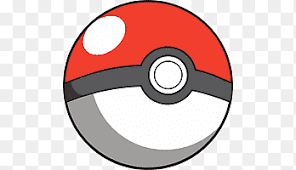
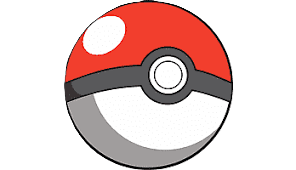
fix: display custom pokemons from localStorage in PokemonPage and delete default-pokemon.png background

diff --git a/src/components/PokemonPage.jsx b/src/components/PokemonPage.jsx
@@ -54,7 +54,7 @@ const typeTextColors = {
 
 export default function PokemonPage() {
   const [pokemon, setPokemon] = useState(null);
-  const {pokemonName} = useParams();
+  const { pokemonName } = useParams();
   const navigate = useNavigate();
   const [category, setCategory] = useState("");
   const [story, setStory] = useState("");
@@ -62,14 +62,23 @@ export default function PokemonPage() {
 
 
   useEffect(() => {
-    if(pokemonName){
-    const URL = `https://pokeapi.co/api/v2/pokemon/${pokemonName.toLowerCase()}`;
-    axios.get(URL).then((response) => {
-      setPokemon(response.data);
-    })
+    const stored = JSON.parse(localStorage.getItem("pokemons")) || [];
+    const localPokemon = stored.find(p => p.name.toLowerCase() === pokemonName.toLowerCase());
+
+    if (localPokemon) {
+      setPokemon(localPokemon);
+      return;
+    }
+
+    if (pokemonName) {
+      const URL = `https://pokeapi.co/api/v2/pokemon/${pokemonName.toLowerCase()}`;
+      axios.get(URL).then((response) => {
+        setPokemon(response.data);
+      })
         .catch((error) => {
           console.error('Error fetching Pokemons', error)
-          setPokemon(null)}
+          setPokemon(null)
+        }
         );
     } else {
       setPokemon(null);
@@ -79,49 +88,59 @@ export default function PokemonPage() {
 
   useEffect(() => {
     if (pokemonName) {
+      const stored = JSON.parse(localStorage.getItem("pokemons")) || [];
+      const localPokemon = stored.find(p => p.name.toLowerCase() === pokemonName.toLowerCase());
+
+      if (localPokemon) {
+        setCategory(localPokemon.category || "");
+        setStory(localPokemon.story || "No story available for " + pokemonName);
+        setGender(localPokemon.gender || "");
+        return;
+      }
+      
       fetch(`https://pokeapi.co/api/v2/pokemon-species/${pokemonName.toLowerCase()}/`)
-          .then((res) => res.json())
-          .then((data) => {
-            setCategory(data.genera.find(genus => genus.language.name === "en")?.genus);
+        .then((res) => res.json())
+        .then((data) => {
+          setCategory(data.genera.find(genus => genus.language.name === "en")?.genus);
 
-            const story = data.flavor_text_entries
-                .filter(entry => entry.language.name === "en")
-                .map(entry => entry.flavor_text)
-                .filter((text, index, self) => self.indexOf(text) === index)
-                .slice(0, 5)
-                .join("\n\n");
-            setStory(story.length > 0 ? story : "No story available for "+ pokemonName);
+          const story = data.flavor_text_entries
+            .filter(entry => entry.language.name === "en")
+            .map(entry => entry.flavor_text)
+            .filter((text, index, self) => self.indexOf(text) === index)
+            .slice(0, 5)
+            .join("\n\n");
+          setStory(story.length > 0 ? story : "No story available for " + pokemonName);
 
-            const genderRate = data.gender_rate;
-            let genderDisplay = null;
-            if (genderRate === -1) {
-              genderDisplay = <FontAwesomeIcon icon="question" className="text-gray-500 text-2xl" />;
-            } else if (genderRate === 0){
-              genderDisplay = <FontAwesomeIcon icon="mars" className="text-blue-500 text-2xl" />
-            } else if (genderRate === 8){
-              genderDisplay = <FontAwesomeIcon icon="venus" className="text-rose-500 text-2xl" />
-            }
-            else{
-              genderDisplay = (
-                  <div className="flex gap-2">
-                    <FontAwesomeIcon icon="mars" className="text-blue-500 text-2xl" />
-                    <FontAwesomeIcon icon="venus" className="text-rose-500 text-2xl" />
-                  </div>
-              )
-            }
-            setGender(genderDisplay)
-          })
-          .catch((error) => console.error("Error fetching species data", error));
+          const genderRate = data.gender_rate;
+          let genderDisplay = null;
+          if (genderRate === -1) {
+            genderDisplay = <FontAwesomeIcon icon="question" className="text-gray-500 text-2xl" />;
+          } else if (genderRate === 0) {
+            genderDisplay = <FontAwesomeIcon icon="mars" className="text-blue-500 text-2xl" />
+          } else if (genderRate === 8) {
+            genderDisplay = <FontAwesomeIcon icon="venus" className="text-rose-500 text-2xl" />
+          }
+          else {
+            genderDisplay = (
+              <div className="flex gap-2">
+                <FontAwesomeIcon icon="mars" className="text-blue-500 text-2xl" />
+                <FontAwesomeIcon icon="venus" className="text-rose-500 text-2xl" />
+              </div>
+            )
+          }
+          setGender(genderDisplay)
+        })
+        .catch((error) => console.error("Error fetching species data", error));
     }
   }, [pokemonName]);
 
 
   if (pokemon === null /*|| !Array.isArray(pokemons) || pokemons.length === 0*/) {
     return (
-        <div className="w-full h-screen flex flex-col justify-center text-center items-center font-pokemon text-4xl loading gap-5">
-          <h1 className="animate-pulse text-5xl">Loading ...</h1>
-          <img className="animate-spin w-50" src="/loading.png" alt="" />
-        </div>
+      <div className="w-full h-screen flex flex-col justify-center text-center items-center font-pokemon text-4xl loading gap-5">
+        <h1 className="animate-pulse text-5xl">Loading ...</h1>
+        <img className="animate-spin w-50" src="/loading.png" alt="" />
+      </div>
     )
   }
 
@@ -129,8 +148,8 @@ export default function PokemonPage() {
     <div className="w-[90vw] flex flex-col justify-center gap-5 p-3">
 
       <Link to="/home" className="flex gap-2 items-center inset-0 relative left-30">
-          <FontAwesomeIcon icon="arrow-left" className= {`cursor-pointer hover:duration-500 hover:scale-150 ${typeTextColors[pokemon.types[0].type.name]}`}
-          />
+        <FontAwesomeIcon icon="arrow-left" className={`cursor-pointer hover:duration-500 hover:scale-150 ${typeTextColors[pokemon.types[0].type.name]}`}
+        />
         <p className="font-bold">Pokedex</p>
       </Link>
       <div className="w-full flex justify-between items-center gap-10 ml-25">
@@ -142,15 +161,15 @@ export default function PokemonPage() {
               <p className="text-gray-400 text-2xl font-bold">#00{pokemon.id}</p>
             </div>
             <div>
-                <div className="flex gap-2">
-                  {pokemon.types.map((type, index) => (
-                      <p
-                          key={`${type.type.name}-${index}`}
-                          className={`${typeBgColors[type.type.name]} px-5 py-1 rounded-2xl flex justify-center text-sm`}>
-                        {type.type.name}
-                      </p>
-                  ))}
-                </div>
+              <div className="flex gap-2">
+                {pokemon.types.map((type, index) => (
+                  <p
+                    key={`${type.type.name}-${index}`}
+                    className={`${typeBgColors[type.type.name]} px-5 py-1 rounded-2xl flex justify-center text-sm`}>
+                    {type.type.name}
+                  </p>
+                ))}
+              </div>
             </div>
           </div>
 
@@ -194,7 +213,7 @@ export default function PokemonPage() {
               <h2 className="font-bold text-xl">Abilities</h2>
               <p>{
                 pokemon.abilities.slice(0, 1).map((abilityObj, index) => (
-                    <p key={index}>{abilityObj.ability.name}</p>
+                  <p key={index}>{abilityObj.ability.name}</p>
                 ))
               }</p>
             </div>
